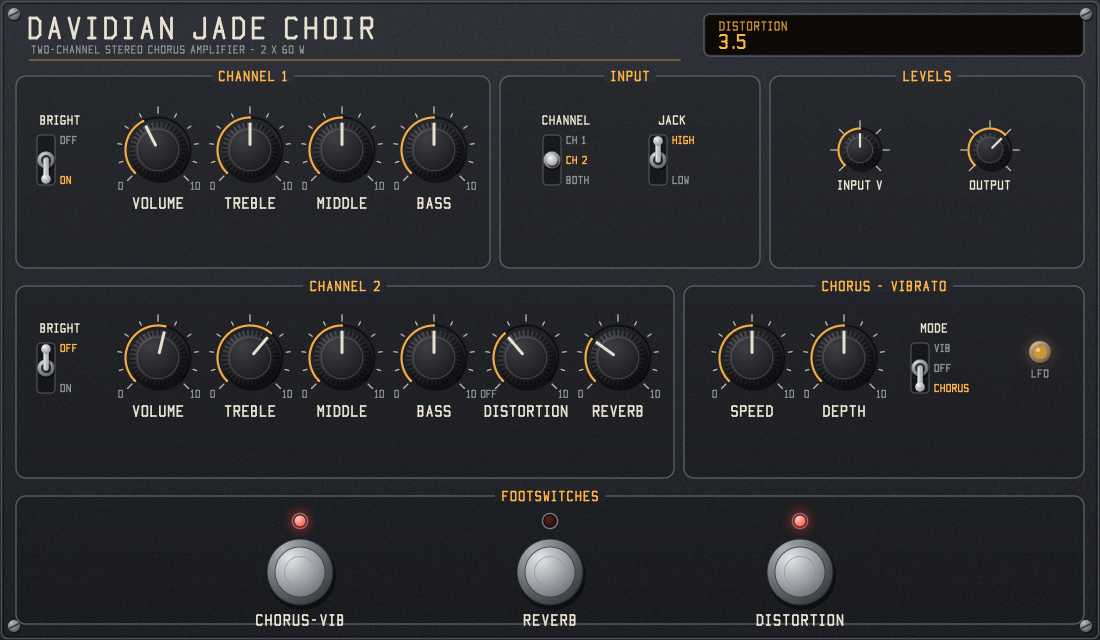
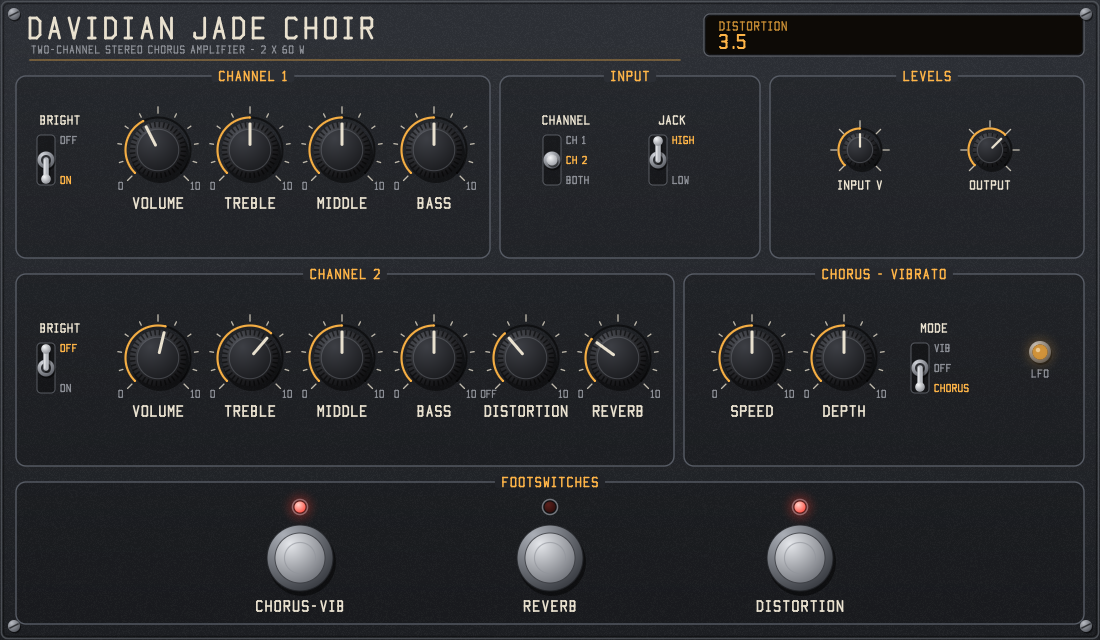
Fit the footswitch row inside its section box
The labels crossed the box's bottom edge and the LEDs crowded its title.
Give the footswitch section more height and move the footswitches up.

Changed region(s): [[0.0, 0.7188, 0.9891, 1.0], [0.0, 0.375, 0.9891, 0.4688]]

diff --git a/src/ui/panel.h b/src/ui/panel.h
@@ -61,9 +61,9 @@ static const Widget WIDGETS[] = {
     { W_KNOB, PORT_DEPTH, 844, 358, 28, 0, 1, 0.5f, 0, "DEPTH", "VIBRATO DEPTH", "0", "10", {0}, 0 },
     { W_SWITCH, PORT_MODE, 920, 368, 0, 0, 2, 2, 0, "MODE", "CHORUS MODE", 0, 0, { "VIB", "OFF", "CHORUS" }, 3 },
     /* FOOTSWITCHES */
-    { W_FOOT, PORT_FS_CHORUS, 300, 572, 25, 0, 1, 1, 0, "CHORUS-VIB", "CHORUS FOOTSWITCH", 0, 0, { "OFF", "ON" }, 2 },
-    { W_FOOT, PORT_FS_REVERB, 550, 572, 25, 0, 1, 1, 0, "REVERB", "REVERB FOOTSWITCH", 0, 0, { "OFF", "ON" }, 2 },
-    { W_FOOT, PORT_FS_DIST, 800, 572, 25, 0, 1, 1, 0, "DISTORTION", "DISTORTION FOOTSWITCH", 0, 0, { "OFF", "ON" }, 2 },
+    { W_FOOT, PORT_FS_CHORUS, 300, 558, 25, 0, 1, 1, 0, "CHORUS-VIB", "CHORUS FOOTSWITCH", 0, 0, { "OFF", "ON" }, 2 },
+    { W_FOOT, PORT_FS_REVERB, 550, 558, 25, 0, 1, 1, 0, "REVERB", "REVERB FOOTSWITCH", 0, 0, { "OFF", "ON" }, 2 },
+    { W_FOOT, PORT_FS_DIST, 800, 558, 25, 0, 1, 1, 0, "DISTORTION", "DISTORTION FOOTSWITCH", 0, 0, { "OFF", "ON" }, 2 },
 };
 #define N_WIDGETS ((int)(sizeof WIDGETS / sizeof WIDGETS[0]))
 
@@ -241,12 +241,12 @@ static void draw_background(Panel* p)
     cv_rrect(&c, 706, 16, 1082, 54, 5, 0x0d0a06, 1);
     cv_rrect_line(&c, 704, 14, 1084, 56, 6, 1.2f, 0x6d7179, 0.8f);
 
-    draw_section(&c, 16, 76, 490, 268, "CHANNEL 1");
-    draw_section(&c, 500, 76, 760, 268, "INPUT");
-    draw_section(&c, 770, 76, 1084, 268, "LEVELS");
-    draw_section(&c, 16, 286, 674, 478, "CHANNEL 2");
-    draw_section(&c, 684, 286, 1084, 478, "CHORUS - VIBRATO");
-    draw_section(&c, 16, 496, 1084, 624, "FOOTSWITCHES");
+    draw_section(&c, 16, 76, 490, 258, "CHANNEL 1");
+    draw_section(&c, 500, 76, 760, 258, "INPUT");
+    draw_section(&c, 770, 76, 1084, 258, "LEVELS");
+    draw_section(&c, 16, 274, 674, 466, "CHANNEL 2");
+    draw_section(&c, 684, 274, 1084, 466, "CHORUS - VIBRATO");
+    draw_section(&c, 16, 482, 1084, 624, "FOOTSWITCHES");
 
     for (i = 0; i < N_WIDGETS; ++i) {
         const Widget* w = &WIDGETS[i];

diff --git a/test/vst3_check.cpp b/test/vst3_check.cpp
@@ -96,10 +96,10 @@ static void test_editor(IEditController* ctrl, Handler& handler)
     check("editor window is a child of the host window", panel != nullptr);
     if (panel) {
         ParamValue v = -1;
-        /* Chorus footswitch at (300, 572): one click turns it off. */
+        /* Chorus footswitch at (300, 558): one click turns it off. */
         handler.log.clear();
-        SendMessageA(panel, WM_LBUTTONDOWN, MK_LBUTTON, MAKELPARAM(300, 572));
-        SendMessageA(panel, WM_LBUTTONUP, 0, MAKELPARAM(300, 572));
+        SendMessageA(panel, WM_LBUTTONDOWN, MK_LBUTTON, MAKELPARAM(300, 558));
+        SendMessageA(panel, WM_LBUTTONUP, 0, MAKELPARAM(300, 558));
         check("footswitch click is one begin/perform/end edit", one_edit(handler.log, PORT_FS_CHORUS, &v) && v == 0.0);
         check("controller follows the click", ctrl->getParamNormalized(PORT_FS_CHORUS) == 0.0);
 

diff --git a/test/ui_check.c b/test/ui_check.c
@@ -189,7 +189,7 @@ int main(int argc, char** argv)
     check("clicking the top of the mode switch selects Vibrato", last_port == PORT_MODE && last_value == 0.0f);
     click(child, 658, 160 + 18);
     check("clicking the bottom of the jack switch selects Low", last_port == PORT_INPUT_JACK && last_value == 1.0f);
-    click(child, 550, 572);
+    click(child, 550, 558);
     check("the reverb footswitch turns it off", last_port == PORT_FS_REVERB && last_value == 0.0f);
     click(child, 552, 160 + 18);
     check("clicking the bottom of the channel switch selects Both", last_port == PORT_CHANNEL && last_value == 2.0f);
